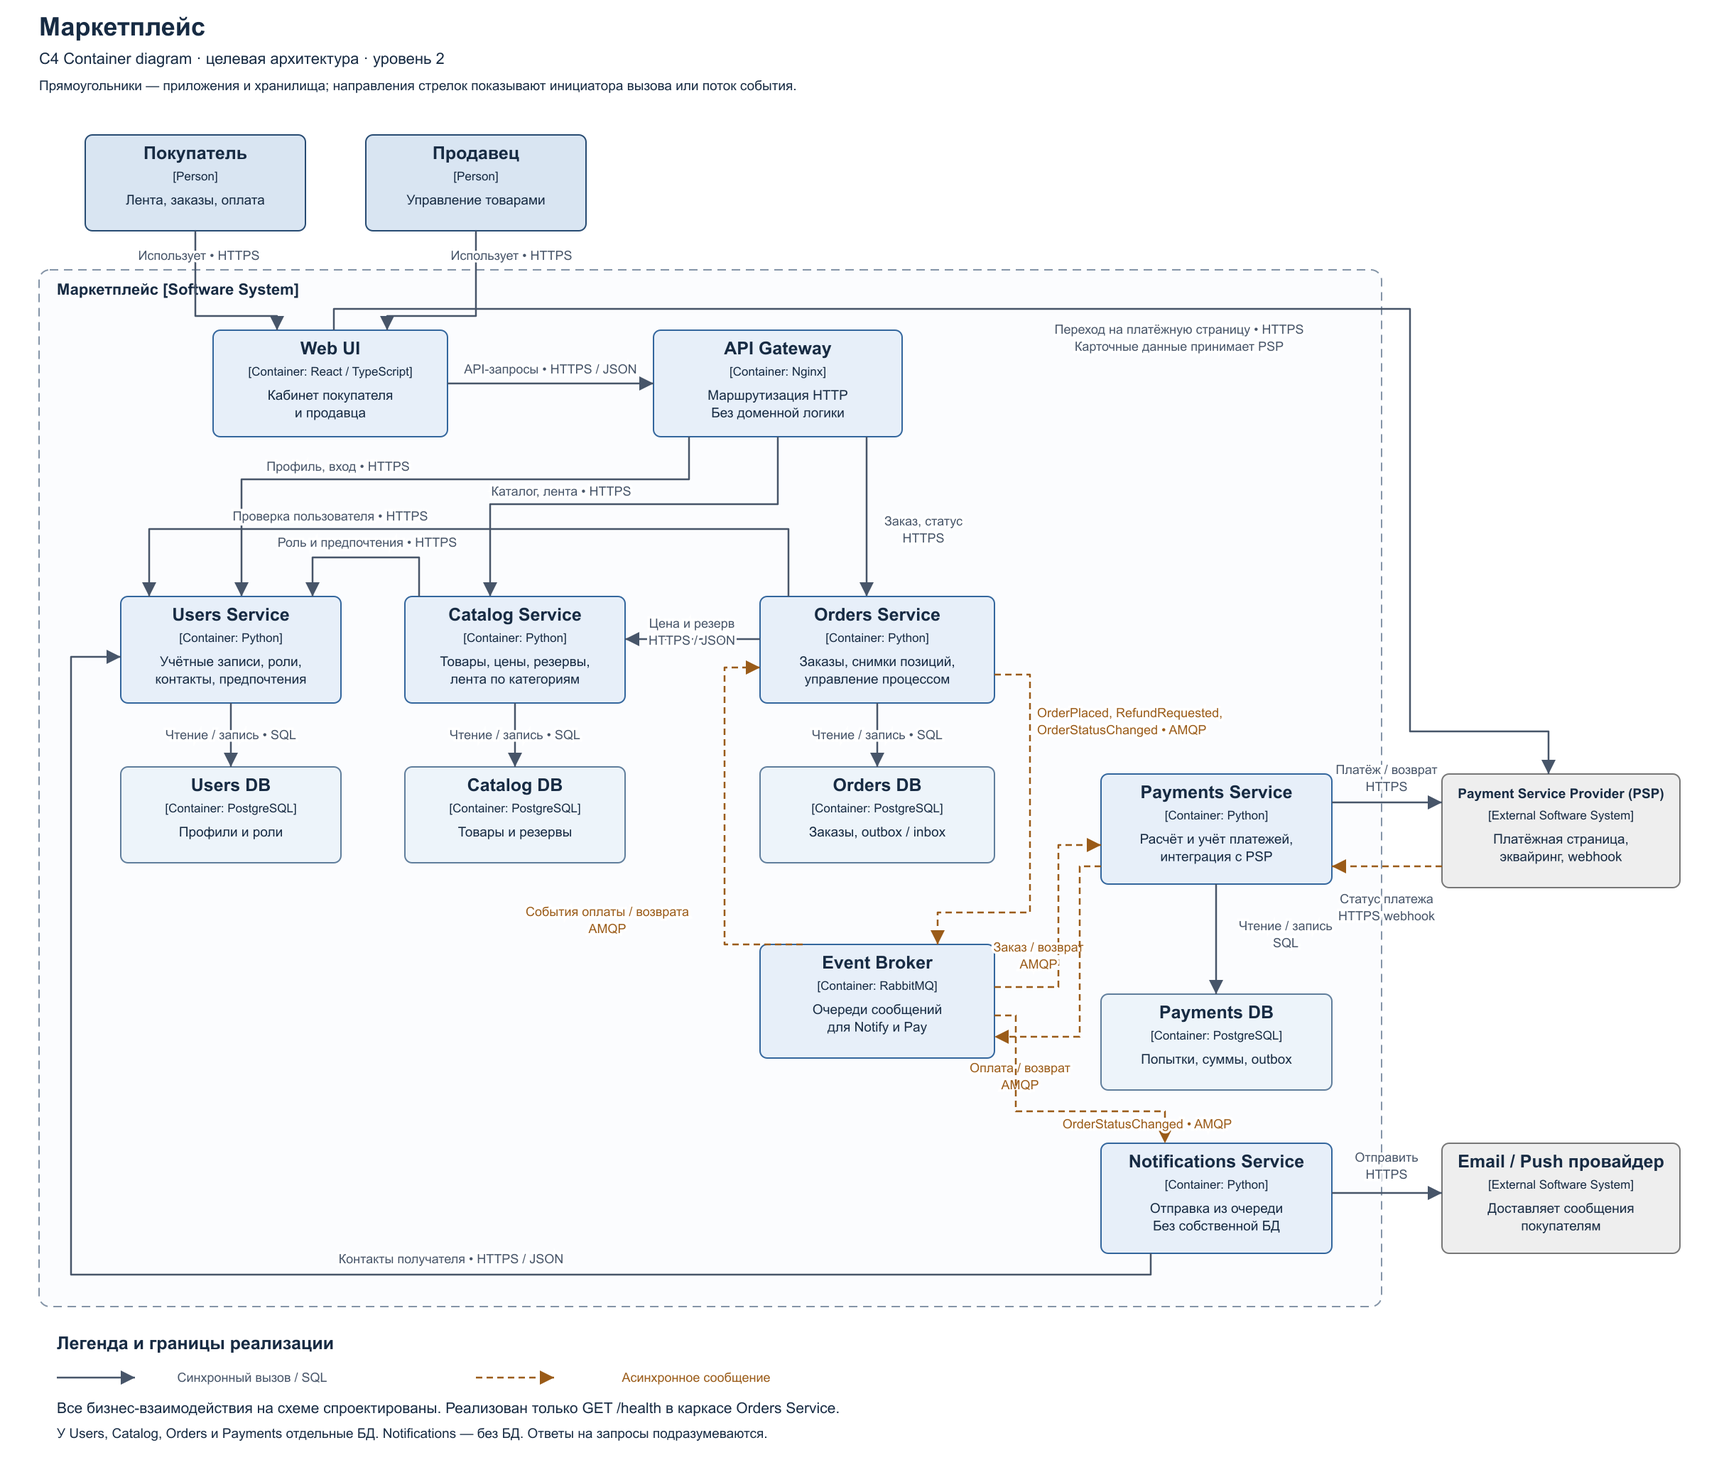
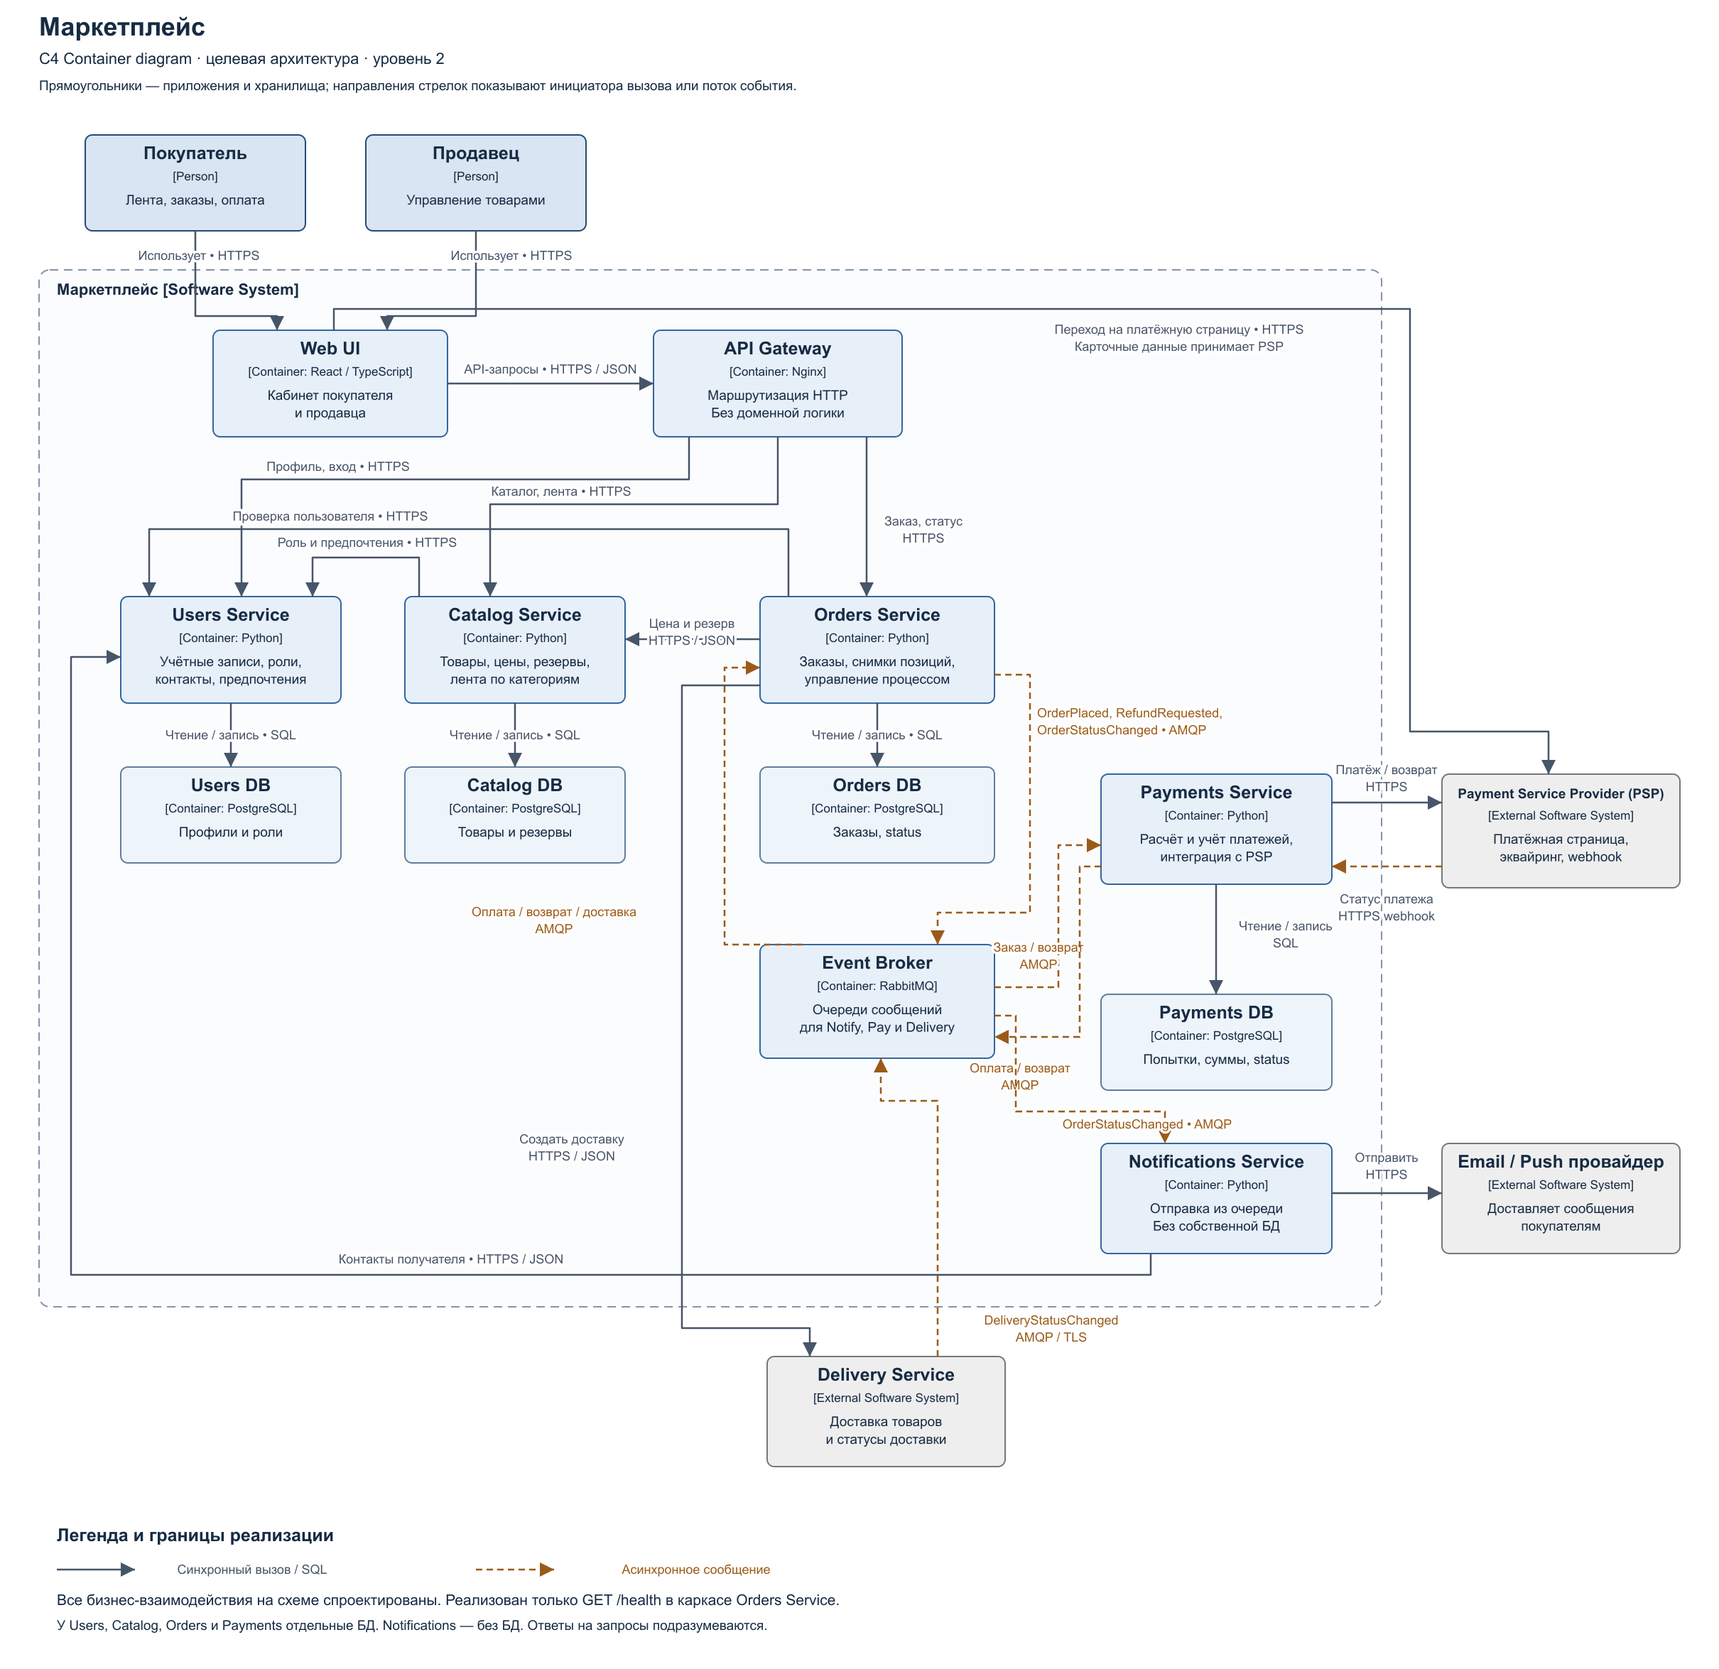
Add external delivery integration and simplify database labels

diff --git a/05_1_балл_Данные_и_связи/README.md b/05_1_балл_Данные_и_связи/README.md
@@ -8,8 +8,8 @@
 |---|---|
 | Users | Профили, роли, контакты, предпочтения |
 | Catalog | Товары, цены, остатки, резервы и формирование ленты |
-| Orders | Заказы, статусы, идентификатор покупателя и снимки позиций |
-| Payments | Суммы, попытки оплаты, результаты и возвраты |
+| Orders | Заказы, status, идентификаторы покупателя и доставки, снимки позиций |
+| Payments | Суммы, попытки оплаты, status и возвраты |
 | Notifications | БД нет: получает сообщения из очереди и отправляет уведомления; шаблоны в коде |
 
 Notifications получает контакты из Users и не хранит историю отправок. Сообщение подтверждается брокеру после успешной передачи провайдеру; при сбое возможен повторный пуш.
@@ -18,7 +18,7 @@ Notifications получает контакты из Users и не хранит 
 
 ## Связи
 
-PSP — Payment Service Provider, внешний платёжный сервис.
+PSP — Payment Service Provider, внешний платёжный сервис. Delivery Service — внешний перевозчик, владеющий данными доставки.
 
 **Синхронно** — вызывающий ждёт ответ. **Асинхронно** — результат обрабатывается позже.
 
@@ -29,11 +29,15 @@ PSP — Payment Service Provider, внешний платёжный сервис
 | Orders → Users / Catalog | HTTPS, синхронно | Проверка покупателя, цена, создание и проверка резерва |
 | Orders → Payments | RabbitMQ, асинхронно | Начать оплату или возврат |
 | Payments → Orders | RabbitMQ, асинхронно | Ссылка на оплату и её результат |
-| Orders → Notifications | RabbitMQ, асинхронно | Сообщить об изменении статуса заказа |
+| Orders → Notifications | RabbitMQ, асинхронно | OrderStatusChanged — изменение статуса заказа |
+| Orders → Delivery Service | HTTPS, синхронно | Передать заказ после подтверждения оплаты и резерва |
+| Delivery Service → Orders | RabbitMQ, AMQP/TLS, асинхронно | DeliveryStatusChanged (orderId, deliveryId, status) |
 | Notifications → Users / провайдер уведомлений | HTTPS, синхронно | Получить контакт и отправить сообщение |
 | Payments → PSP | HTTPS, синхронно | Создать платёж или возврат |
 | PSP → Payments | HTTPS webhook, асинхронно | Подтвердить результат оплаты |
 | UI → PSP | HTTPS, переход на страницу | Ввести платёжные данные |
+
+По DeliveryStatusChanged Orders обновляет status заказа и публикует OrderStatusChanged для Notifications. Допускаем, что Delivery Service умеет AMQP/TLS и имеет доступ только к своему каналу публикации.
 
 Catalog не подключён к брокеру. Он возвращает срок резерва; Orders по этому сроку проверяет его состояние через HTTP и отменяет неоплаченный заказ после подтверждённого истечения. При сетевой ошибке проверка повторяется.
 

diff --git a/ЗАЩИТА.md b/ЗАЩИТА.md
@@ -6,9 +6,9 @@
 
 3. **Домены — 1 балл.** Выделил шесть областей: пользователи, каталог, персональная лента, заказы, платежи и уведомления. У каждой своя задача.
 
-4. **Сервисы — 1 балл.** Получилось пять сервисов. Каталог и ленту объединил: простая сортировка по интересующим категориям использует те же товары.
+4. **Сервисы — 1 балл.** Получилось пять внутренних сервисов; доставку выполняет внешний перевозчик. Каталог и ленту объединил: простая сортировка по интересующим категориям использует те же товары.
 
-5. **Данные и связи — 1 балл.** Users, Catalog, Orders и Payments владеют отдельными БД; Notifications работает без БД. За актуальной ценой Orders обращается к Catalog по HTTP. Результаты оплаты и статусы для уведомлений передаются через RabbitMQ.
+5. **Данные и связи — 1 балл.** Users, Catalog, Orders и Payments владеют отдельными БД; Notifications работает без БД. Orders обращается к Catalog и внешнему Delivery Service по HTTPS. Результаты оплаты и доставки приходят через RabbitMQ; Orders обновляет status и отправляет событие для уведомлений.
 
 6. **Варианты — 1 балл.** Сравнил модульный монолит с пятью отдельными сервисами. Первый запускается одним приложением, второй — пятью.
 

diff --git a/08_1_балл_Выбор/README.md b/08_1_балл_Выбор/README.md
@@ -1,6 +1,6 @@
 # 8. Финальный выбор — 1 балл
 
-Выбраны **пять сервисов**.
+Выбраны **пять внутренних сервисов**; доставка поручена внешнему Delivery Service.
 
 - Платежи имеют свой учёт и внешнего провайдера.
 - Уведомления могут отправляться с задержкой и повторяться независимо от заказов.
@@ -8,4 +8,4 @@
 
 Платим за независимость сетевыми вызовами и обработкой частичных сбоев. Нагрузка и команда в задании не заданы, поэтому выбор не обосновывается выдуманными миллионами пользователей.
 
-Для учебной работы эта схема явно показывает границы ответственности. По ограничению задания реализован только запуск Orders и `/health`; остальные части спроектированы. Допускаем одну валюту RUB и оплату у внешнего провайдера, без доставки, скидок и комиссий.
+Для учебной работы эта схема явно показывает границы ответственности. По ограничению задания реализован только запуск Orders и `/health`; остальные части спроектированы. Допускаем одну валюту RUB и оплату у внешнего провайдера, без расчёта стоимости доставки, скидок и комиссий.

diff --git a/04_1_балл_Домены_по_сервисам/README.md b/04_1_балл_Домены_по_сервисам/README.md
@@ -1,12 +1,12 @@
 # 4. Домены по сервисам — 1 балл
 
-Сервис — отдельная запускаемая программа. Шесть доменов распределены по пяти сервисам:
+Сервис — отдельная запускаемая программа. Шесть доменов распределены по пяти внутренним сервисам:
 
 | Сервис | Домены | Почему так |
 |---|---|---|
 | Users | Пользователи | Один владелец профилей и контактов |
 | Catalog | Каталог и персональная лента | Простая лента использует те же товары и категории |
-| Orders | Заказы | Координирует оформление, сохраняя состав и статус заказа |
+| Orders | Заказы | Координирует оформление и передачу внешнему Delivery Service, хранит состав и статус заказа |
 | Payments | Платежи | Отдельный учёт денежных операций и связь с Payment Service Provider (PSP) |
 | Notifications | Уведомления | Повторяет отправку независимо от оформления заказа |
 

diff --git a/README.md b/README.md
@@ -13,7 +13,7 @@
 | 7 | 1 | [Плюсы, минусы и компромиссы](07_1_балл_Плюсы_и_минусы/README.md) |
 | 8 | 1 | [Обоснование выбора](08_1_балл_Выбор/README.md) |
 
-Архитектура: Users, Catalog, Orders, Payments, Notifications. Каталог и простая персональная лента находятся в одном сервисе. У Users, Catalog, Orders и Payments отдельные БД. Notifications работает без БД; связи показаны на C4 и в пункте 5.
+Архитектура: пять внутренних сервисов — Users, Catalog, Orders, Payments, Notifications; доставку выполняет внешний Delivery Service. Каталог и простая персональная лента находятся в одном сервисе. У Users, Catalog, Orders и Payments отдельные БД. Notifications работает без БД; связи показаны на C4 и в пункте 5.
 
 Реализован только технический каркас Orders с `/health`, без бизнес-логики. Docker-запуск проверен на `hse`, проект находится в `~/soa/hw1`.
 

diff --git a/01_2_балла_Диаграмма/README.md b/01_2_балла_Диаграмма/README.md
@@ -1,6 +1,6 @@
 # 1. C4 Container — 2 балла
 
-На диаграмме показаны покупатель, продавец, части маркетплейса, отдельные БД и внешние провайдеры. Стрелки показывают, кто с кем взаимодействует и по какому протоколу.
+На диаграмме показаны покупатель, продавец, части маркетплейса, отдельные БД и внешние провайдеры, включая Delivery Service. Стрелки показывают, кто с кем взаимодействует и по какому протоколу.
 
 ![C4 Container](container.svg)
 

diff --git a/03_1_балл_Домены/README.md b/03_1_балл_Домены/README.md
@@ -1,6 +1,6 @@
 # 3. Домены и ответственность — 1 балл
 
-Домен — область задач бизнеса. В этой работе выделены шесть доменов:
+Домен — область задач бизнеса. Внутри маркетплейса выделены шесть доменов; доставка поручена внешнему перевозчику:
 
 | Домен | За что отвечает |
 |---|---|
